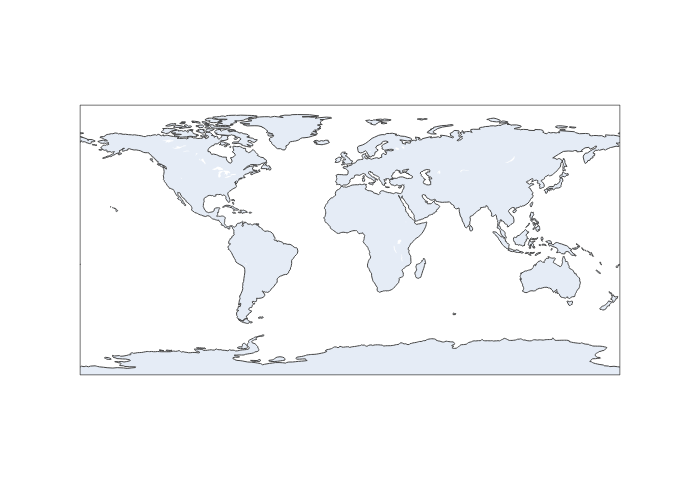
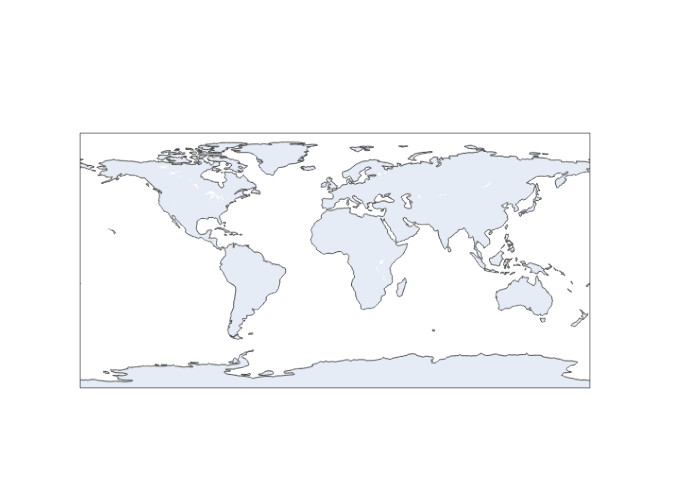
added dots at beginning/end & changing colors

Changed region(s): [[0.09, 0.21, 0.9, 0.78]]

diff --git a/GUI.py b/GUI.py
@@ -3,6 +3,7 @@ import requests
 import json
 import numpy as np
 import plotly.express as px
+import plotly.graph_objects as go
 import threading
 import os
 import time
@@ -60,22 +61,34 @@ def get_coords(ips):
     np_coords = np.array(coords)
     return np_coords, full_coords
 
-def plot_img(np_coords):
+def plot_img(np_coords, finished=True, color=None):
     lats = np_coords[:,0]
     lons = np_coords[:,1]
-    fig = px.line_geo(lat=lats, lon=lons)
+    n = len(lats)-1
+    fig = go.Figure()
+    for i in range(n):
+        if color is None:
+            a = 2*np.pi*i/n
+            r = int(255*((np.cos(a)+1)/2))
+            g = int(255*((np.cos(a+2*np.pi/3)+1)/2))
+            b = int(255*((np.cos(a+4*np.pi/3)+1)/2))
+            c = 'rgb('+str(r)+','+str(g)+','+str(b)+')'
+        else:
+            c = color
+        fig.add_trace(go.Scattergeo(lat=[lats[i], lats[i+1]], lon=[lons[i], lons[i+1]], \
+                                    mode = 'lines', line = dict(width = 2, color = c) ))
+    fig.add_trace(go.Scattergeo(lat=[lats[0]],lon=[lons[0]]))
+    if finished:
+        fig.add_trace(go.Scattergeo(lat=[lats[-1]],lon=[lons[-1]]))
     fig.write_image("fig.png", scale=1)
+    ### for higher resolution:
     # fig.write_image("fig.png", scale=2)
+    ### for web display:
+    # fig.show()
 
-def plot_web(np_coords):
-    lats = np_coords[:,0]
-    lons = np_coords[:,1]
-    # fig = px.line_geo(lat=lats, lon=lons)
-    fig = px.line_geo(lat=lats, lon=lons, projection="orthographic")
-    fig.show()
 
 def tracert():
-    global root, tracert_button, adress_entry, thread, filename, ips, np_coords, full_coords
+    global root, tracert_button, adress_entry, thread, filename, ips, np_coords, full_coords, coords
     if adress_entry.get()=='_':
         #quicker: use old tracert data
         filename="tracert.txt"
@@ -97,6 +110,7 @@ def tracert():
                     thread = None
                     filename = None
                     ips = []
+                    coords = []
                     np_coords = np.array([[1,1]])
                     full_coords = []
                 #do the job
@@ -136,10 +150,10 @@ def update():
             txt += '\n'
             i += 1
         ip_list.config(text=txt+'...')
-        plot_img(np_coords)
+        plot_img(np_coords, False)
         time.sleep(0.1)
         img = ImageTk.PhotoImage(Image.open("fig.png"))      
-        map_show.create_image(-75,-100, anchor=tk.NW, image=img)
+        map_show.create_image(-76,-128, anchor=tk.NW, image=img)
     if finished(filename):
         np_coords, full_coords = get_coords(ips)
         txt = ""
@@ -154,7 +168,7 @@ def update():
         plot_img(np_coords)
         time.sleep(1)
         img = ImageTk.PhotoImage(Image.open("fig.png"))      
-        map_show.create_image(-75,-100, anchor=tk.NW, image=img)
+        map_show.create_image(-76,-128, anchor=tk.NW, image=img)
         tracert_button.config(state='normal')
     else:
         root.after(1000, update)
@@ -196,9 +210,9 @@ ip_list.pack()
 tracert_button = tk.Button(root, text='tracert', command=tracert)
 tracert_button.pack()
 
-map_show = tk.Canvas(root, width = 545, height = 275)
+map_show = tk.Canvas(root, width = 513, height = 261)
 map_show.pack()
 img = ImageTk.PhotoImage(Image.open("fig0.png"))  
-map_show.create_image(-75,-100, anchor=tk.NW, image=img)
+map_show.create_image(-76,-128, anchor=tk.NW, image=img)
 
 root.mainloop()
